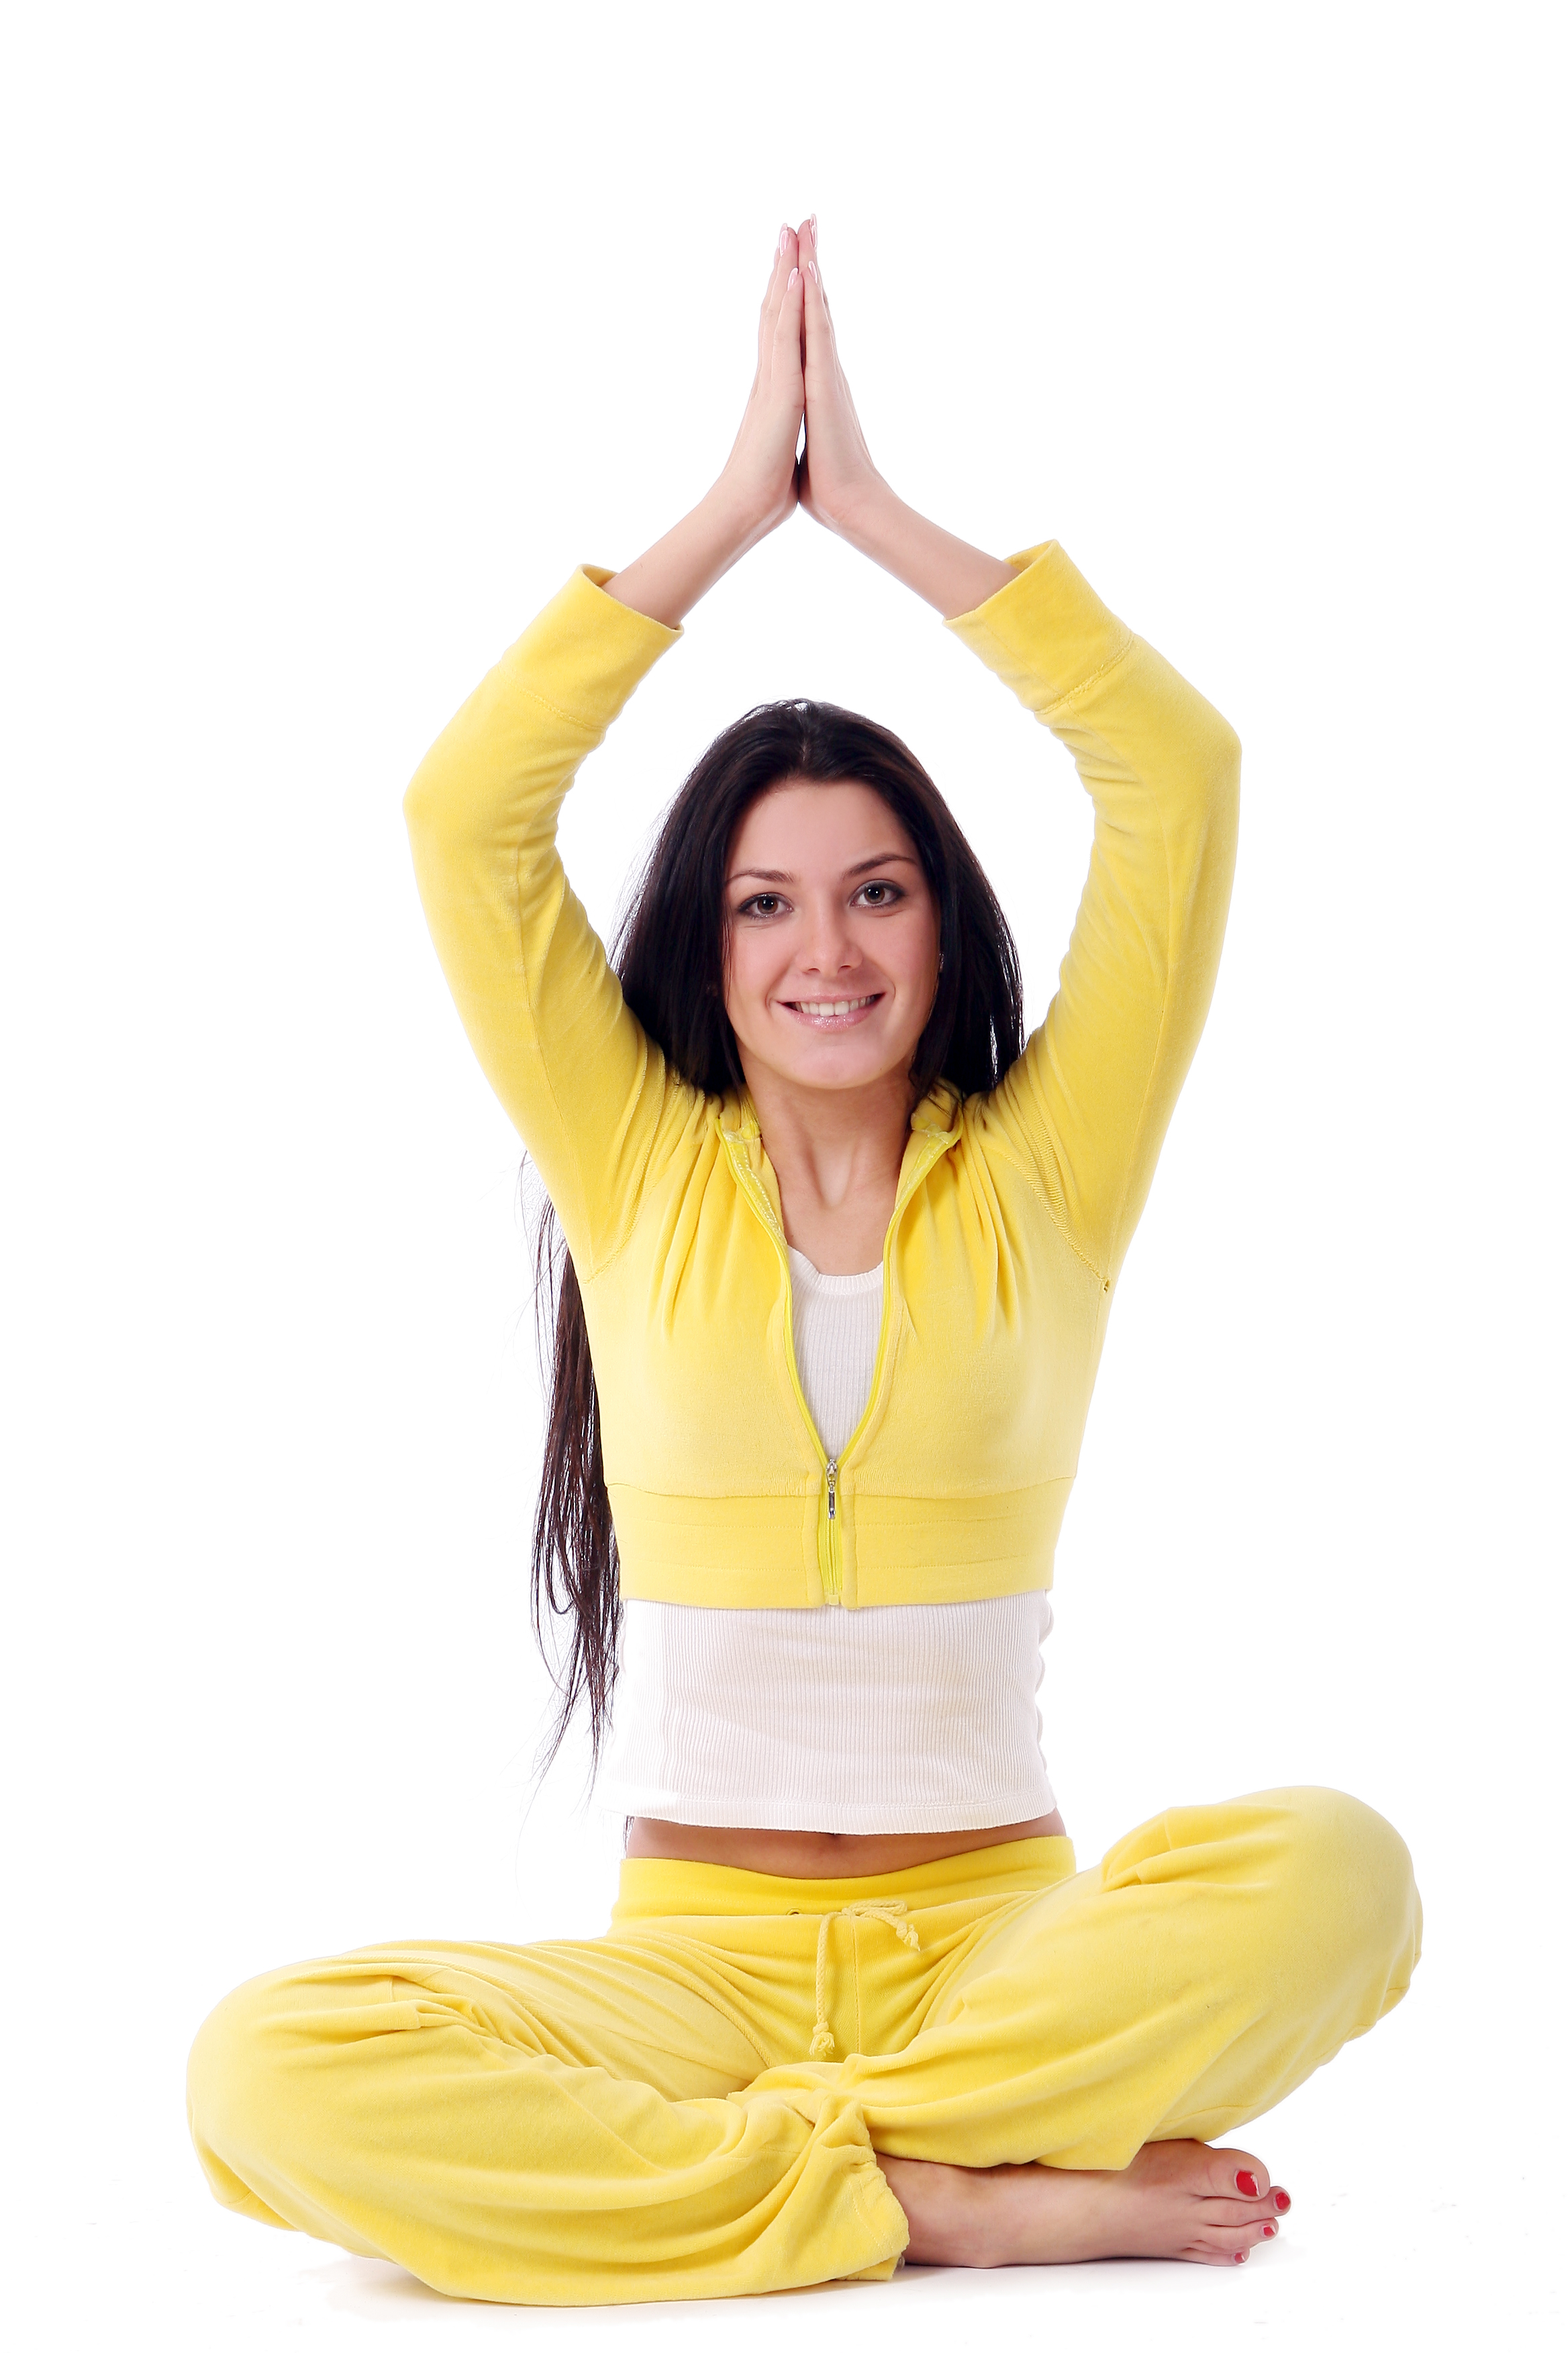
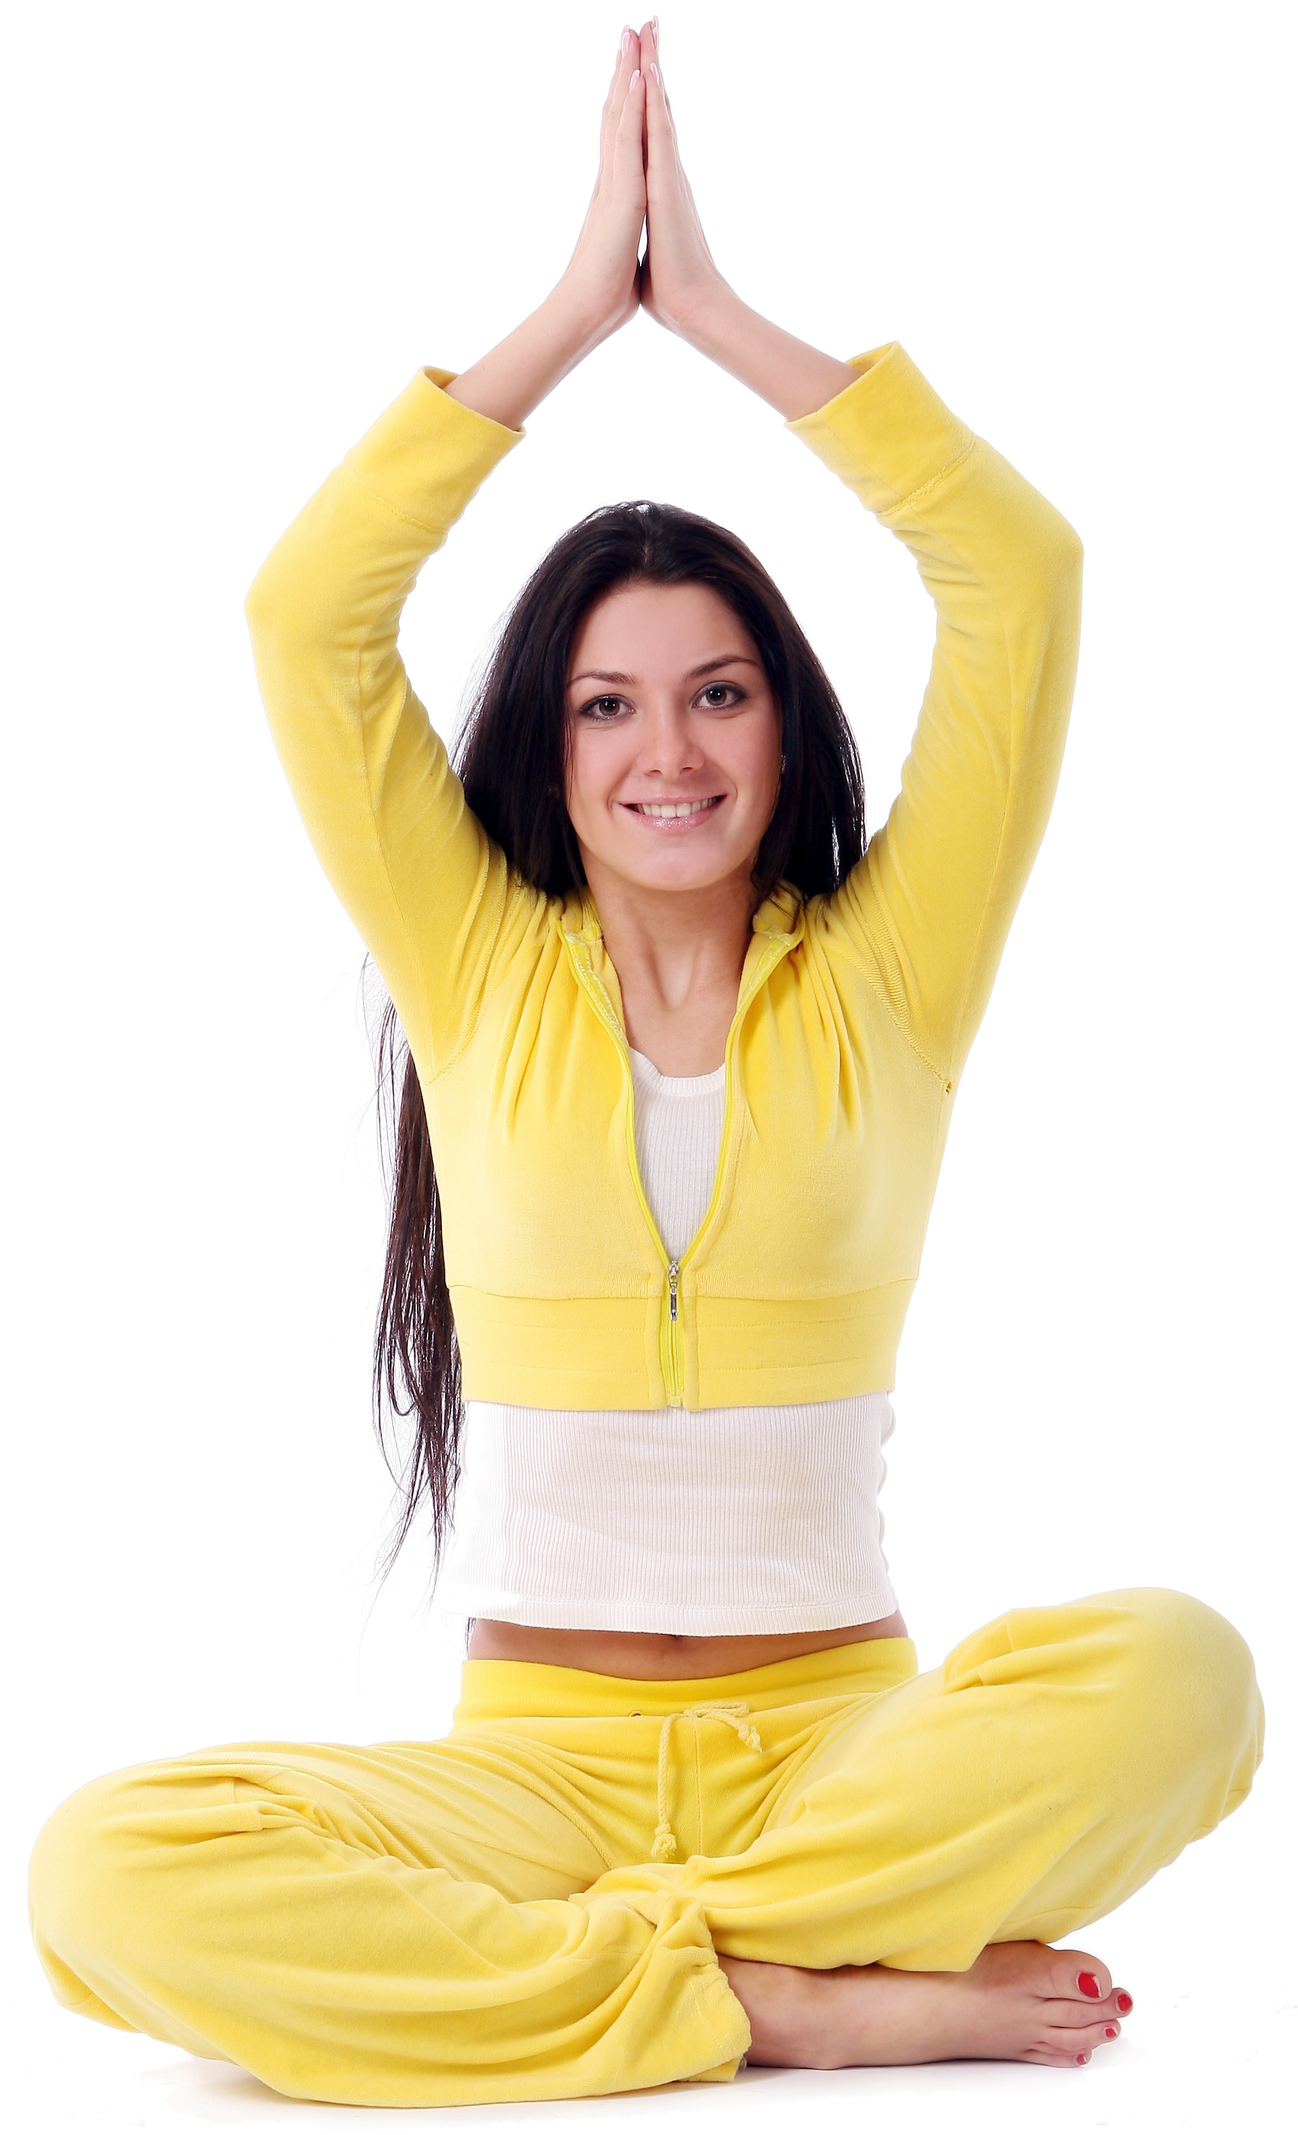
updated home ui

diff --git a/app/page.tsx b/app/page.tsx
@@ -2,26 +2,35 @@ import Image from "next/image";
 import FithubLogo from "@/app/ui/fithub-logo";
 import { lusitana, poppins } from "@/app/ui/fonts";
 import Link from "next/link";
+import { ArrowRightIcon } from "@heroicons/react/16/solid";
 export default function Home() {
   return (
-    <main className="flex min-h-screen flex-col items-center p-4 pt-10 ">
-      <div
-        className={`bg-blue-500 w-full flex h-20 rounded-lg p-5 md:h-52 items-end shrink-0`}
-      >
+    <main className="flex min-h-screen flex-col items-center p-6">
+      <div className="flex w-full bg-sky-950 h-24 rounded-lg justify-center p-10 md:p-5  mb-10">
         <FithubLogo />
       </div>
-      <div className="flex w-full flex-row justify-center items-center gap-3 px-24">
-        <div className="w-1/3 rounded-md bg-gray-50 h-60 p-5 text-center">
-          <p className={`${lusitana.className} text-xl`}>
+      <div className="flex flex-col justify-center items-center md:flex-row">
+        <div className="flex flex-col justify-center gap-6 rounded-lg pl-6 py-10 md:w-2/5 md:pl-10 md:ml-20">
+          <p className={`${lusitana.className} text-xl md:text-3xl`}>
             <strong>A fitness and mindfulness hub for everyone!</strong>
+            Fill your life with energy with our daily guided workouts,
+            mindfulness sessions, tracking calendar and{" "}
+            <em>a community leaderboard to keep you going!</em>
           </p>
+          <Link
+            href="/login"
+            className="flex items-center gap-5 self-start rounded-lg bg-blue-500 px-6 py-3 text-sm font-medium text-white transition-colors hover:bg-blue-400 md:text-base"
+          >
+            <span>Get Started</span>
+            <ArrowRightIcon className="w-5 md:w-6" />
+          </Link>
         </div>
-        <div className="w-2/3 flex justify-center items-center">
+        <div className="flex items-center justify-center p-6  md:px-0 md:py-0">
           <Image
             src="/home-hero.jpg"
             alt="A person doing yoga"
-            width={280}
-            height={280}
+            width={300}
+            height={300}
           />
         </div>
       </div>

diff --git a/app/ui/fithub-logo.tsx b/app/ui/fithub-logo.tsx
@@ -3,7 +3,7 @@ import { lusitana, poppins } from "@/app/ui/fonts";
 
 export default function FithubLogo() {
   return (
-    <div className="flex flex-row items-center leading-none w-full text-white">
+    <div className="flex flex-row items-center justify-center leading-none w-full text-white ">
       <Image
         className="rounded-full mr-3 invert pb-1"
         src="/logo.svg"
